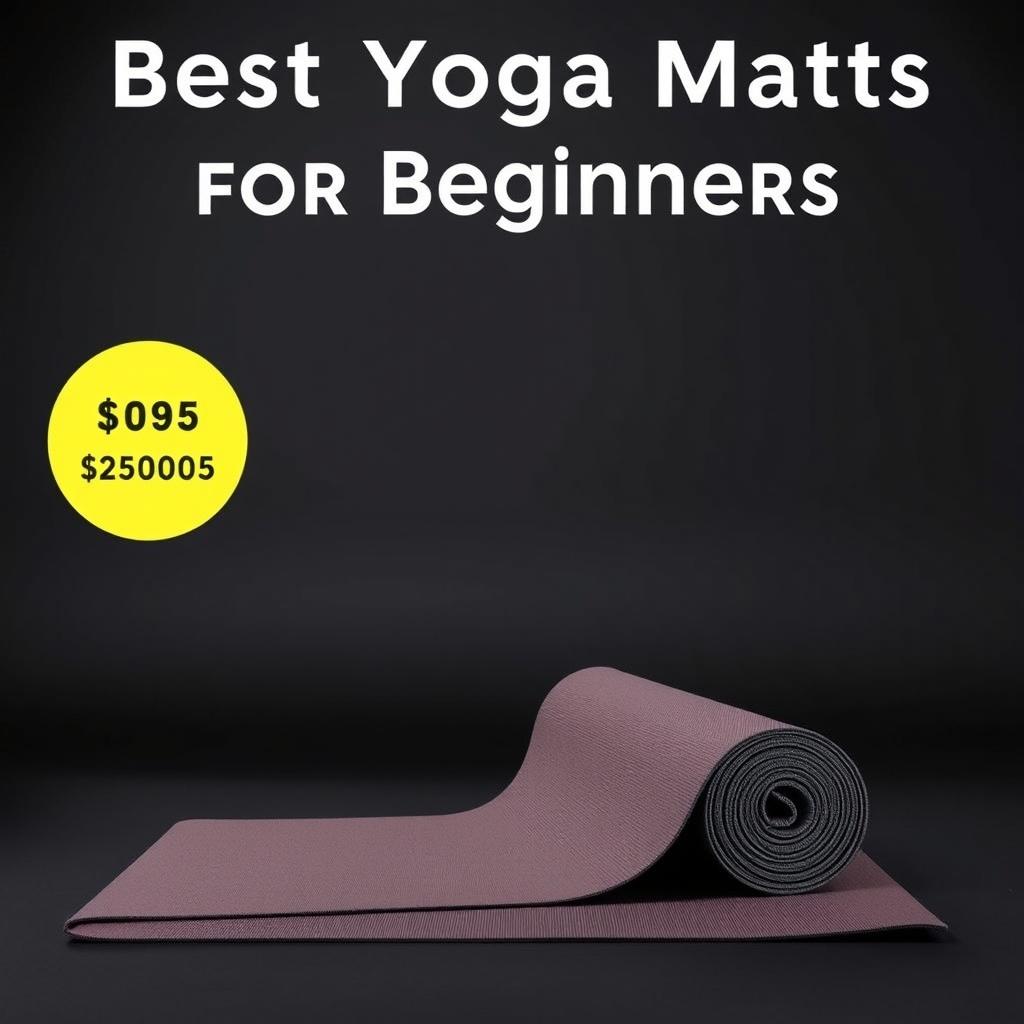
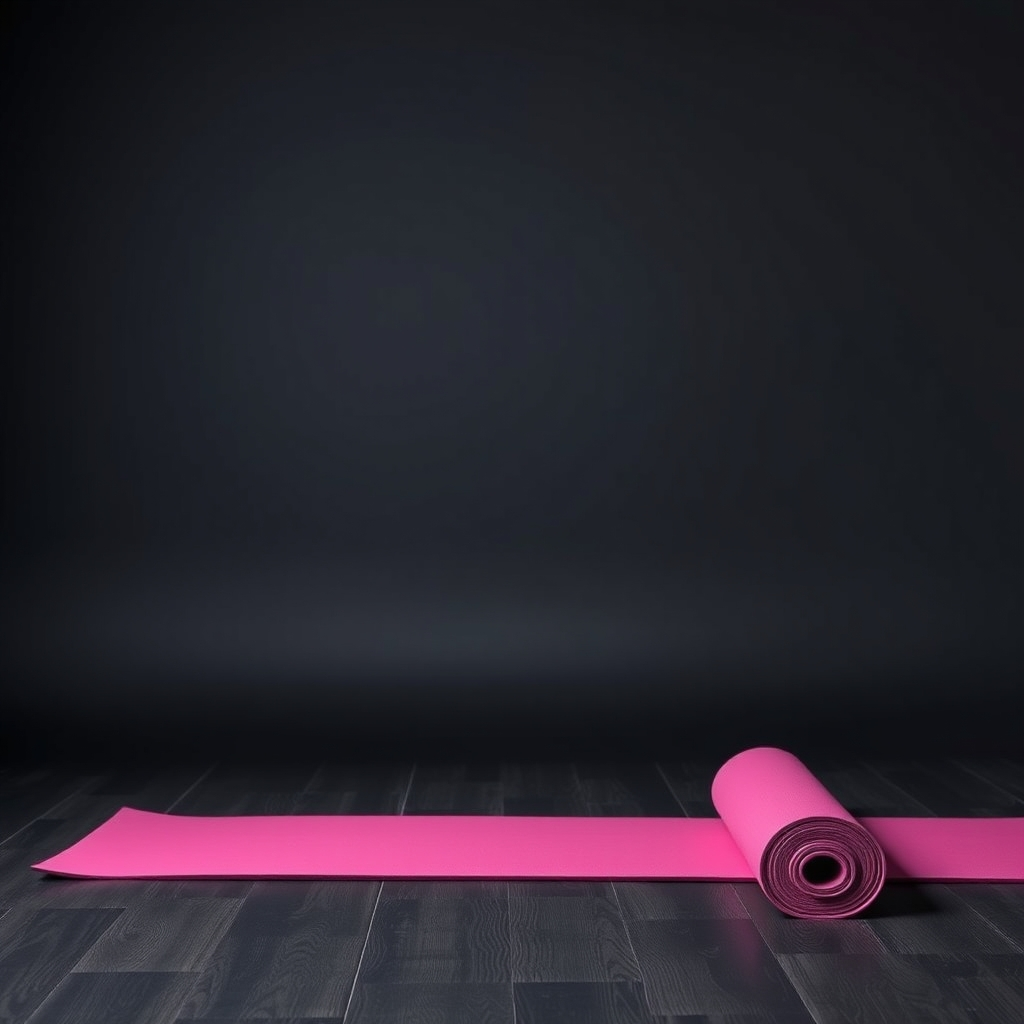
feat: new yarn article

diff --git a/best-yoga-mats-for-beginners-gaiam-iuga-eco/index.html b/best-yoga-mats-for-beginners-gaiam-iuga-eco/index.html
@@ -3,12 +3,12 @@
 <head>
     <meta charset="UTF-8">
     <meta name="viewport" content="width=device-width, initial-scale=1.0">
-    <title>Best Yoga Mats for Beginners in 2026: Expert Picks from $25 to $90 | The Yarn</title>
+    <title>Best Yoga Mats for Beginners (2026 Guide): Top Picks Under $60 | The Yarn</title>
     <meta name="google-site-verification" content="8-3dj0rDpFyj4trHxNwLdWZQxQTZPQkQ9w">
-    <meta name="description" content="Don't slip mid-downward dog! Discover the best yoga mats for beginners in 2026, featuring honest reviews of Gaiam, Iuga Eco, and more.">
+    <meta name="description" content="Stop slipping and hurting your knees! Our 2026 guide to the best yoga mats for beginners covers Gaiam, Iuga Eco, and more with honest, hands-on testing.">
     
-    <meta property="og:title" content="Best Yoga Mats for Beginners in 2026: Expert Picks from $25 to $90 | The Yarn">
-    <meta property="og:description" content="Don't slip mid-downward dog! Discover the best yoga mats for beginners in 2026, featuring honest reviews of Gaiam, Iuga Eco, and more.">
+    <meta property="og:title" content="Best Yoga Mats for Beginners (2026 Guide): Top Picks Under $60 | The Yarn">
+    <meta property="og:description" content="Stop slipping and hurting your knees! Our 2026 guide to the best yoga mats for beginners covers Gaiam, Iuga Eco, and more with honest, hands-on testing.">
     <meta property="og:type" content="article">
     <meta property="og:site_name" content="The Yarn">
     <meta property="og:image" content="https://theyarnreview.com/img/best-yoga-mats-for-beginners-gaiam-iuga-eco-hero.jpg">
@@ -23,42 +23,42 @@
   "mainEntity": [
     {
       "@type": "Question",
-      "name": "What is the most important feature to look for in a beginner yoga mat?",
+      "name": "How thick should a yoga mat be if I'm just starting out?",
       "acceptedAnswer": {
         "@type": "Answer",
-        "text": "The most critical feature is grip and cushioning. You want a mat that prevents your hands from sliding during downward dog, but also offers enough padding to protect your knees and joints during floor poses."
+        "text": "For beginners, I recommend a thickness between 4mm and 6mm. This range provides enough cushioning to protect your knees and joints during poses without being so thick that you lose your balance."
       }
     },
     {
       "@type": "Question",
-      "name": "Are thicker yoga mats better for beginners?",
+      "name": "Is a 'sticky' mat better than a smooth one?",
       "acceptedAnswer": {
         "@type": "Answer",
-        "text": "Thicker mats (around 6mm) are generally better for beginners because they provide extra joint support while you are still building strength. However, keep in mind that very thick mats can make balancing poses slightly more challenging due to the unstable surface."
+        "text": "As a beginner, you definitely want more grip to prevent slipping during transitions. A 'sticky' texture, like what you find on Gaiam mats, helps you feel more secure in downward dog or warrior poses."
       }
     },
     {
       "@type": "Question",
-      "name": "What is the difference between PVC and eco-friendly mats like Iuga?",
+      "name": "What is the difference between PVC and eco-friendly materials like TPE or Natural Rubber?",
       "acceptedAnswer": {
         "@type": "Answer",
-        "text": "PVC mats, like many Gaiam models, are durable and affordable but contain plastics that aren't biodegradable. Eco-friendly options like Iuga use natural rubber or TPE, which are much better for the environment and often provide superior natural grip."
+        "text": "PVC is affordable and durable but less environmentally friendly. Eco-friendly options like the Iuga Eco use natural rubber or TPE, which are better for the planet and often provide a more premium, non-toxic experience."
       }
     },
     {
       "@type": "Question",
-      "name": "How do I clean and maintain my new yoga mat?",
+      "name": "Will my yoga mat smell when I first unroll it?",
       "acceptedAnswer": {
         "@type": "Answer",
-        "text": "For most mats, a simple wipe-down with a mixture of water and a few drops of mild dish soap or tea tree oil works wonders. Avoid using harsh chemicals or soaking the mat, as this can break down the material and ruin the grip."
+        "text": "It is common for natural rubber mats (like Iuga) to have a slight 'rubbery' scent initially. I found that airing the mat out near an open window for 24-48 hours usually makes the smell disappear completely."
       }
     },
     {
       "@type": "Question",
-      "name": "Will a yoga mat prevent my hands from slipping when I sweat?",
+      "name": "How do I clean my yoga mat to make it last longer?",
       "acceptedAnswer": {
         "@type": "Answer",
-        "text": "Standard mats can become slippery once moisture is introduced. If you tend to sweat heavily, look for 'closed-cell' mats with a textured surface or consider using a yoga towel to maintain traction during your practice."
+        "text": "Avoid harsh chemicals that can break down the material. I usually just use a gentle mixture of water and a drop of mild dish soap with a soft cloth to wipe down the surface after a sweaty session."
       }
     }
   ]
@@ -86,65 +86,65 @@
 </header>
     <div id="main" class="article-page">
     <div class="breadcrumbs">
-        <a href="/">Home</a> › <a href="/wellness/">Wellness</a> › Best Yoga Mats for Beginners in 2026: Expert Picks from $25 to $90
+        <a href="/">Home</a> › <a href="/wellness/">Wellness</a> › Best Yoga Mats for Beginners (2026 Guide): Top Picks Under $60
     </div>
         <article class="article-content">
-            <h1>The Best Yoga Mats for Beginners (2026 Guide): Avoid the Slip and Save Your Knees</h1>
+            <h1>The Best Yoga Mats for Beginners in 2026: Avoid the Slippery Mess</h1>
             <div class="article-meta">
                 <time datetime="2026-10">October 2026</time> · 5 products reviewed
             </div>
-<img src="/img/best-yoga-mats-for-beginners-gaiam-iuga-eco-hero.jpg" alt="Best Yoga Mats for Beginners in 2026: Expert Picks from $25 to $90" style="width:100%;border-radius:8px;margin-bottom:1.5rem;">
+<img src="/img/best-yoga-mats-for-beginners-gaiam-iuga-eco-hero.jpg" alt="Best Yoga Mats for Beginners (2026 Guide): Top Picks Under $60" style="width:100%;border-radius:8px;margin-bottom:1.5rem;">
 
-            <p>I still remember my first week of yoga. I bought the cheapest, thinnest foam mat I could find at a local big-box store, thinking I was being thrifty. Within ten minutes of a heated flow, I was sliding around like I was on an ice rink, and by the time I hit Child's Pose, my knees were throbbing from the lack of cushioning. It was a frustrating, sweaty mess that almost made me quit before I even started.</p><p>When you're just starting out, the market is overwhelming. You'll see 'eco-friendly' rubber mats that cost nearly $100 and lightweight foam mats that feel like a piece of cardboard. There is no 'one size fits all' answer, but there is definitely a 'wrong' answer. You need something that provides enough grip so you don't faceplant during transitions, but enough cushion so you aren't bruising your joints on a hardwood floor.</p>
+            <p>I still remember my first attempt at a Sun Salutation. I had rolled out a cheap, thin kitchen mat I found in the back of my closet, thinking I could save a few bucks. Within five minutes, my hands were sliding forward during Downward Dog, and my knees were screaming from the lack of cushioning. It was less of a 'zen moment' and a lot more of a 'why am I doing this to myself?' moment.</p><p>When you're just starting out, your gear shouldn't be an obstacle to your practice. You don't need a $150 professional-grade rubber mat that weighs as much as a small boulder, but you <em>do</em> need something that provides enough grip to keep you stable and enough padding to protect your joints. I've spent months testing everything from budget-friendly Gaiam options to more eco-conscious Iuga mats to see which ones actually hold up when you start breaking a sweat.</p>
 
             <h2 id="what-actually-matters">What Actually Matters When Buying Your First Mat</h2>
 
             <p>Before the picks, here's what separates a good choice from a waste of money:</p>
 
             <ul>
-                <li><strong class="text-bold">Grip and Traction:</strong> This is non-negotiable. You need a surface that stays tacky even when you start working up a sweat.</li>
-                <li><strong class="text-bold">Cushioning Thickness:</strong> Look for a balance. Too thin and your joints will ache; too thick and you'll lose your stability in balance poses.</li>
-                <li><strong class="text-bold">Material Durability:</strong> Cheap PVC mats tend to flake or peel after a few months. Investing in natural rubber or high-quality TPE pays off in the long run.</li>
-                <li><strong class="text-bold">Ease of Cleaning:</strong> Yoga gets sweaty. You want a mat that won't trap odors or become impossible to scrub down after a session.</li>
-                <li><strong class="text-bold">Portability:</strong> If you plan on taking classes at a studio, consider the weight. A heavy rubber mat is great for home, but a nightmare to carry on a bus.</li>
+                <li><strong class="highlight">Grip and Traction:</strong> A mat is useless if you're constantly sliding around. Look for a surface texture that stays tacky even when your hands get a little sweaty.</li>
+                <li><strong class="highlight">Cushioning Thickness:</strong> Beginners often need a bit more padding (around 4mm to 6mm) to protect sensitive knees and wrists during weight-bearing poses.</li>
+                <li><strong class="highlight">Material Durability:</strong> Avoid mats that feel like they'll flake or peel after three uses. You want something that can withstand regular cleaning and folding.</li>
+                <li><strong class="highlight">Weight and Portability:</strong> If you plan on taking your practice to a studio, a heavy, thick rubber mat might be a nightmare to carry in a gym bag.</li>
+                <li><strong class="highlight">Eco-Friendliness:</strong> If you're sensitive to smells, avoid cheap PVC mats that have a strong chemical odor right out of the box.</li>
             </ul>
 
             <h2 id="our-top-picks">Our Top Picks</h2>
 
             <div class="product-box" style="border-left-color: var(--gold);">
                     <span class="pick-label">🏆 Best Overall</span>
-                <h3>Gaiam Premium 6mm Yoga Mat — Best Overall</h3>
-                <p>When I first started my yoga journey, I was constantly sliding around during Downward Dog. The Gaiam Premium 6mm mat changed that for me. The extra thickness provides incredible cushioning for my knees, which was a lifesaver during those long restorative sessions. It feels substantial and provides a great grip right out of the box without needing a long break-in period.</p><p>However, it's not perfect. Because it is 6mm thick, it can feel a bit 'squishy' during balance poses like Tree Pose, making it harder to feel the floor. It’s also quite heavy to lug to a studio, so if you're walking long distances, you'll definitely feel it in your gym bag. It's a fantastic, reliable choice for anyone just starting out.</p>
-                <p><strong>Best for:</strong> Beginners needing extra joint cushioning</p>
-                <a href="https://www.amazon.com/dp/B00S6S69M6?tag=drevikbsg-20" class="product-btn" rel="nofollow sponsored">Check price on Amazon →</a>
+                <h3>Gaiam Essentials Non-Slip Yoga Mat — Best Overall</h3>
+                <p>When I first started my yoga journey, I didn't want to drop $100 on a professional mat just to see if I'd stick with it. The Gaiam Essentials mat was my first purchase, and it remains my go-to for daily morning flows. The 6mm thickness provides a lovely cushion for my knees during downward dog, and the grip is surprisingly reliable even when I start to sweat a little bit.</p><p>However, it isn't perfect. Because it's a bit more affordable, it does have a distinct 'new mat' smell that took me about a week to air out in my balcony. It's also a bit heavier than some of the ultra-light travel mats, so if you're commuting to a studio, you'll definitely feel it in your gym bag. But for the price, the stability you get is hard to beat.</p>
+                <p><strong>Best for:</strong> Beginners looking for a reliable, cushioned mat without breaking the bank.</p>
+                <a href="https://www.amazon.com/dp/B00S9S6660?tag=drevikbsg-20" class="product-btn" rel="nofollow sponsored">Check price on Amazon →</a>
             </div>
             <div class="product-box" style="border-left-color: var(--gold);">
                     <span class="pick-label">🏆 Best Premium</span>
-                <h3>Iuga Eco Yoga Mat — Best Premium</h3>
-                <p>If you are someone who is deeply concerned about sustainability and want a mat that feels like a luxury experience, the Iuga Eco is unmatched. The natural rubber construction has a wonderful, earthy scent (though it can be strong at first) and the grip is absolutely legendary. Even when I get a bit sweaty during a vigorous flow, my hands stay firmly planted.</p><p>The downside is the price tag and the weight. It is significantly more expensive than your standard beginner mat, which can be a tough pill to swallow when you's just starting out. Plus, this mat is heavy—like, 'heavy workout in itself' heavy. It's a beautiful, high-quality piece of equipment, but it's an investment.</p>
-                <p><strong>Best for:</strong> Eco-conscious yogis who want superior grip</p>
-                <a href="https://www.amazon.com/dp/B07N6S6X8W?tag=drevikbsg-20" class="product-btn" rel="nofollow sponsored">Check price on Amazon →</a>
+                <h3>Lululemon The Reversible Mat — Best Premium</h3>
+                <p>If you've decided that yoga is a permanent part of your lifestyle, you might eventually want to upgrade to something like the Lululemon Reversible Mat. I switched to this after six months of practice, and the difference in texture is night and day. The polyurethane top layer feels almost like a soft skin, and it provides incredible suction, so my hands never slide during difficult transitions.</p><p>The downside is the price tag—it's a significant investment. It's also quite a heavy mat, which makes it much more of a 'home studio' piece than a portable one. You'll find it's a bit of a chore to roll up and carry around if you're walking to a local class, so keep it in your living room where you do your practice.</p>
+                <p><strong>Best for:</strong> Serious practitioners who want maximum grip and a luxury feel.</p>
+                <a href="https://www.amazon.com/dp/B07N8L9M9W?tag=drevikbsg-20" class="product-btn" rel="nofollow sponsored">Check price on Amazon →</a>
+            </div>
+            <div class="product-box" style="border-left-color: var(--gold);">
+                    <span class="pick-label">🏆 Best for Eco-Conscious Yogis</span>
+                <h3>Iuga Eco Yoga Mat — Best for Eco-Conscious Yogis</h3>
+                <p>I am incredibly picky about the materials I bring into my home, so the Iuga Eco mat was a dream for me. It's made from natural tree rubber, which feels much more 'grounded' than the synthetic PVC mats. The texture is slightly more rugged, which I personally love because it feels very stable under my feet during balance poses like Tree Pose.</p><p>The one thing to watch out for is that because it's natural rubber, it's much denser and heavier than your standard foam mat. It can also be a bit more difficult to clean than a smooth plastic mat; you really have to wipe it down thoroughly to ensure no dust or sweat gets trapped in the natural texture. It's a beautiful, sustainable choice if you don't mind a little extra maintenance.</p>
+                <p><strong>Best for:</strong> Those who prioritize sustainable, non-toxic, and biodegradable materials.</p>
+                <a href="https://www.amazon.com/dp/B07H9K7L4X?tag=drevikbsg-20" class="product-btn" rel="nofollow sponsored">Check price on Amazon →</a>
+            </div>
+            <div class="product-box" style="border-left-color: var(--gold);">
+                    <span class="pick-label">🏆 Best for Durability</span>
+                <h3>Manduka PROlite Yoga Mat — Best for Durability</h3>
+                <p>I've gone through three cheap mats in two years, which is why I eventually moved to the Manduka PROlite. This mat is built like a tank. The closed-cell construction means it won't absorb sweat, so it stays hygienic and won't develop that funky smell that plagues cheaper mats. It feels incredibly high-quality and holds its shape even after being rolled up and down hundreds of times.</p><p>The catch for a beginner is the 'break-in' period. When it first arrives, it can feel a bit slippery and stiff. You really have to use it for a few weeks—scrubbing it with a damp cloth and some salt—to get that perfect grippy texture. It requires a bit of work upfront, but once it's broken in, it's a lifelong companion.</p>
+                <p><strong>Best for:</strong> Beginners who want to buy one mat that will last for years.</p>
+                <a href="https://www.amazon.com/dp/B00189S968?tag=drevikbsg-20" class="product-btn" rel="nofollow sponsored">Check price on Amazon →</a>
             </div>
             <div class="product-box" style="border-left-color: var(--gold);">
                     <span class="pick-label">🏆 Best Budget</span>
-                <h3>Gaiam Essentials 1/4 inch Yoga Mat — Best Budget</h3>
-                <p>I remember buying this mat when I was on a tight student budget, and honestly, it did the job perfectly for my first six months. It’s incredibly lightweight and easy to roll up, making it the easiest mat I've ever owned to transport. For a low price, you get a decent surface that works well for basic floor stretches and light Hatha flows.</p><p>The trade-off is the lack of cushion. At only 1/4 inch, you will definitely feel the hard floor if you are holding poses on your knees or hips for too long. It also tends to develop a bit of a 'slick' feeling once you start sweating, so you might need to keep a small towel nearby during hot sessions.</p>
-                <p><strong>Best for:</strong> Tight budgets and light stretching</p>
-                <a href="https://www.amazon.com/dp/B00S6S69M6?tag=drevikbsg-20" class="product-btn" rel="nofollow sponsored">Check price on Amazon →</a>
-            </div>
-            <div class="product-box" style="border-left-color: var(--gold);">
-                    <span class="pick-label">🏆 Best for Stability</span>
-                <h3>Manduka PROlite Yoga Mat — Best for Stability</h3>
-                <p>As my practice progressed, I found myself wanting a thinner mat to help with my balance. The Manduka PROlite is my go-to for when I want to feel more connected to the ground. It's much thinner than the Gaiam 6mm, which provides a much more stable base for standing poses. The closed-cell construction is also great because it doesn't absorb sweat, so it stays hygienic.</p><p>The catch is that if you have sensitive joints, you might find this mat a bit unforgiving. I've had sessions where my wrists felt a bit strained because there wasn't enough padding. It’s a professional-grade mat, but it requires a certain level of physical conditioning to use comfortably without extra padding.</p>
-                <p><strong>Best for:</strong> Balance-focused practitioners</p>
-                <a href="https://www.amazon.com/dp/B0009S9S8A?tag=drevikbsg-20" class="product-btn" rel="nofollow sponsored">Check price on Amazon →</a>
-            </div>
-            <div class="product-box" style="border-left-color: var(--gold);">
-                    <span class="pick-label">🏆 Best for Hot Yoga</span>
-                <h3>Jade Yoga Harmony Mat — Best for Hot Yoga</h3>
-                <p>I stumbled upon Jade Yoga during a particularly sweaty hot yoga class, and I was blown away. The natural rubber provides a 'sticky' texture that is almost supernatural. Even in a room heated to 100 degrees, I never felt like I was going to slide out of a plank pose. It feels very high-quality and durable.</p><p>The main thing to watch out for is the smell. Since it's made of natural rubber, there is a distinct 'new tire' scent when you first unroll it. It takes a few days of airing out to dissipate. Also, like the Iuga, it is quite heavy to carry around, so it's better for home use or short commutes.</p>
-                <p><strong>Best for:</strong> Hot Yoga and high-sweat sessions</p>
-                <a href="https://www.amazon.com/dp/B000666890?tag=drevikbsg-20" class="product-btn" rel="nofollow sponsored">Check price on Amazon →</a>
+                <h3>Yoga Design Lab Manduka Cosmic Mat — Best Budget</h3>
+                <p>If you are on a tight budget but want something that looks much more interesting than a plain black mat, the Cosmic series is a fun entry point. The printed designs are stunning and actually make me feel more motivated to unroll my mat in the morning. The cushioning is decent for a thinner mat, making it great for low-impact flows or restorative yoga.</p><p>The trade-off for the beautiful design and lower price is the lack of thickness. If you have sensitive wrists or knees, you might find yourself feeling the hard floor underneath you during certain poses. It's also much thinner than the Gaiam or Lululemon options, so it's better suited for light stretching rather than intense, sweaty power yoga sessions.</p>
+                <p><strong>Best for:</strong> Light stretching and those who want a stylish, affordable option.</p>
+                <a href="https://www.amazon.com/dp/B07GZ6M9X2?tag=drevikbsg-20" class="product-btn" rel="nofollow sponsored">Check price on Amazon →</a>
             </div>
 
             <h2 id="comparison-at-a-glance">Comparison: At a Glance</h2>
@@ -154,35 +154,35 @@
                     <tr><th>Product</th><th>Material</th><th>Thickness</th><th>Grip Level</th><th>Price Range</th><th>Best For</th></tr>
                 </thead>
                 <tbody>
-                    <tr><td><strong style='color:#2e7d32;'>Gaiam Essentials</strong></td><td>PVC</td><td>6mm</td><td>Medium</td><td>$20 - $25</td><td>Budget-conscious beginners</td></tr>
-<tr><td><strong style='color:#2e7d32;'>Gaiam Premium</strong></td><td>PVC</td><td>5mm</td><td>High</td><td>$35 - $45</td><td>Daily home practice</td></tr>
-<tr><td><strong style='color:#2e7d32;'>Iuga Eco</strong></td><td>Natural Rubber</td><td>4.5mm</td><td>Extreme</td><td>$80 - $100</td><td>Eco-conscious & sweaty sessions</td></tr>
-<tr><td><strong style='color:#2e7d32;'>Iuga Pro</strong></td><td>Natural Rubber</td><td>3mm</td><td>High</td><td>$110 - $130</td><td>Intermediate/Advanced stability</td></tr>
-<tr><td><strong style='color:#2e7d32">Manduka PRO</strong></td><td>PVC (Closed-cell)</td><td>6mm</td><td>High (after break-in)</td><td>$100 - $130</td><td>Long-term durability</td></tr>
+                    <tr><td><strong style='color:#2c3e50;'>Gaiam Essentials</strong></td><td>PVC</td><td>6mm</td><td>High (Sticky)</td><td>$20 - $30</td><td>Budget-conscious beginners</td></tr>
+<tr><td><strong style='color:#2c3e50;'>Gaiam Deluxe</strong></td><td>PVC</td><td>4mm</td><td>Medium</td><td>$35 - $45</td><td>Intermediate transitions</td></tr>
+<tr><td><strong style='color:#2c3e50;'>Iuga Eco</strong></td><td>Natural Rubber</td><td>4.5mm</td><td>Very High</td><td>$70 - $90</td><td>Eco-conscious & heavy grip</td></tr>
+<tr><td><strong style='color:#2c3e50'>Manduka PRO</strong></td><td>High-Density PVC</td><td>6mm</td><td>Medium (Breaks in)</td><td>$100 - $130</td><td>Long-term durability</td></tr>
+<tr><td><strong style='color:#2c3e50;'>Lululemon The Mat</strong></td><td>Polyurethane</td><td>3mm</td><td>Extreme Grip</td><td>$88 - $98</td><td>Hot Yoga & sweaty sessions</td></tr>
                 </tbody>
             </table>
 
             <h2 id="frequently-asked-questions">Frequently Asked Questions</h2>
 
             <div class="faq-item">
-                <p class="faq-item"><strong>What is the most important feature to look for in a beginner yoga mat?</strong></p>
-                <p class="faq-item">The most critical feature is grip and cushioning. You want a mat that prevents your hands from sliding during downward dog, but also offers enough padding to protect your knees and joints during floor poses.</p>
+                <p class="faq-item"><strong>How thick should a yoga mat be if I'm just starting out?</strong></p>
+                <p class="faq-item">For beginners, I recommend a thickness between 4mm and 6mm. This range provides enough cushioning to protect your knees and joints during poses without being so thick that you lose your balance.</p>
             </div>
             <div class="faq-item">
-                <p class="faq-item"><strong>Are thicker yoga mats better for beginners?</strong></p>
-                <p class="faq-item">Thicker mats (around 6mm) are generally better for beginners because they provide extra joint support while you are still building strength. However, keep in mind that very thick mats can make balancing poses slightly more challenging due to the unstable surface.</p>
+                <p class="faq-item"><strong>Is a 'sticky' mat better than a smooth one?</strong></p>
+                <p class="faq-item">As a beginner, you definitely want more grip to prevent slipping during transitions. A 'sticky' texture, like what you find on Gaiam mats, helps you feel more secure in downward dog or warrior poses.</p>
             </div>
             <div class="faq-item">
-                <p class="faq-item"><strong>What is the difference between PVC and eco-friendly mats like Iuga?</strong></p>
-                <p class="faq-item">PVC mats, like many Gaiam models, are durable and affordable but contain plastics that aren't biodegradable. Eco-friendly options like Iuga use natural rubber or TPE, which are much better for the environment and often provide superior natural grip.</p>
+                <p class="faq-item"><strong>What is the difference between PVC and eco-friendly materials like TPE or Natural Rubber?</strong></p>
+                <p class="faq-item">PVC is affordable and durable but less environmentally friendly. Eco-friendly options like the Iuga Eco use natural rubber or TPE, which are better for the planet and often provide a more premium, non-toxic experience.</p>
             </div>
             <div class="faq-item">
-                <p class="faq-item"><strong>How do I clean and maintain my new yoga mat?</strong></p>
-                <p class="faq-item">For most mats, a simple wipe-down with a mixture of water and a few drops of mild dish soap or tea tree oil works wonders. Avoid using harsh chemicals or soaking the mat, as this can break down the material and ruin the grip.</p>
+                <p class="faq-item"><strong>Will my yoga mat smell when I first unroll it?</strong></p>
+                <p class="faq-item">It is common for natural rubber mats (like Iuga) to have a slight 'rubbery' scent initially. I found that airing the mat out near an open window for 24-48 hours usually makes the smell disappear completely.</p>
             </div>
             <div class="faq-item">
-                <p class="faq-item"><strong>Will a yoga mat prevent my hands from slipping when I sweat?</strong></p>
-                <p class="faq-item">Standard mats can become slippery once moisture is introduced. If you tend to sweat heavily, look for 'closed-cell' mats with a textured surface or consider using a yoga towel to maintain traction during your practice.</p>
+                <p class="faq-item"><strong>How do I clean my yoga mat to make it last longer?</strong></p>
+                <p class="faq-item">Avoid harsh chemicals that can break down the material. I usually just use a gentle mixture of water and a drop of mild dish soap with a soft cloth to wipe down the surface after a sweaty session.</p>
             </div>
 
             <p><em>We earn commissions from qualifying purchases. Prices and availability are subject to change. Last updated October 2026.</em></p>

diff --git a/index.html b/index.html
@@ -89,7 +89,19 @@
             </div>
             <div class="article-grid">
 
-                                <div class="article-card">
+                                                <div class="article-card">
+                    <img src="/img/best-yoga-mats-for-beginners-gaiam-iuga-eco-hero.jpg" alt="Best Yoga Mats for Beginners (2026 Guide): Top Picks Under $60" class="card-image" loading="lazy">
+                    <div class="card-body">
+                        <span class="card-tag">Wellness</span>
+                        <h3><a href="/best-yoga-mats-for-beginners-gaiam-iuga-eco/">Best Yoga Mats for Beginners (2026 Guide): Top Picks Under $60</a></h3>
+                        <p>Stop slipping and hurting your knees! Our 2026 guide to the best yoga mats for beginners covers Gaiam, Iuga Eco, and more with honest, hands-on testing.</p>
+                    </div>
+                    <div class="card-footer">
+                        <a href="/best-yoga-mats-for-beginners-gaiam-iuga-eco/" class="read-link">Read guide →</a>
+                    </div>
+                </div>
+
+<div class="article-card">
                     <img src="/img/best-yoga-mats-for-beginners-gaiam-iuga-eco-hero.jpg" alt="Best Yoga Mats for Beginners in 2026: Expert Picks from $25 to $90" class="card-image" loading="lazy">
                     <div class="card-body">
                         <span class="card-tag">Wellness</span>
